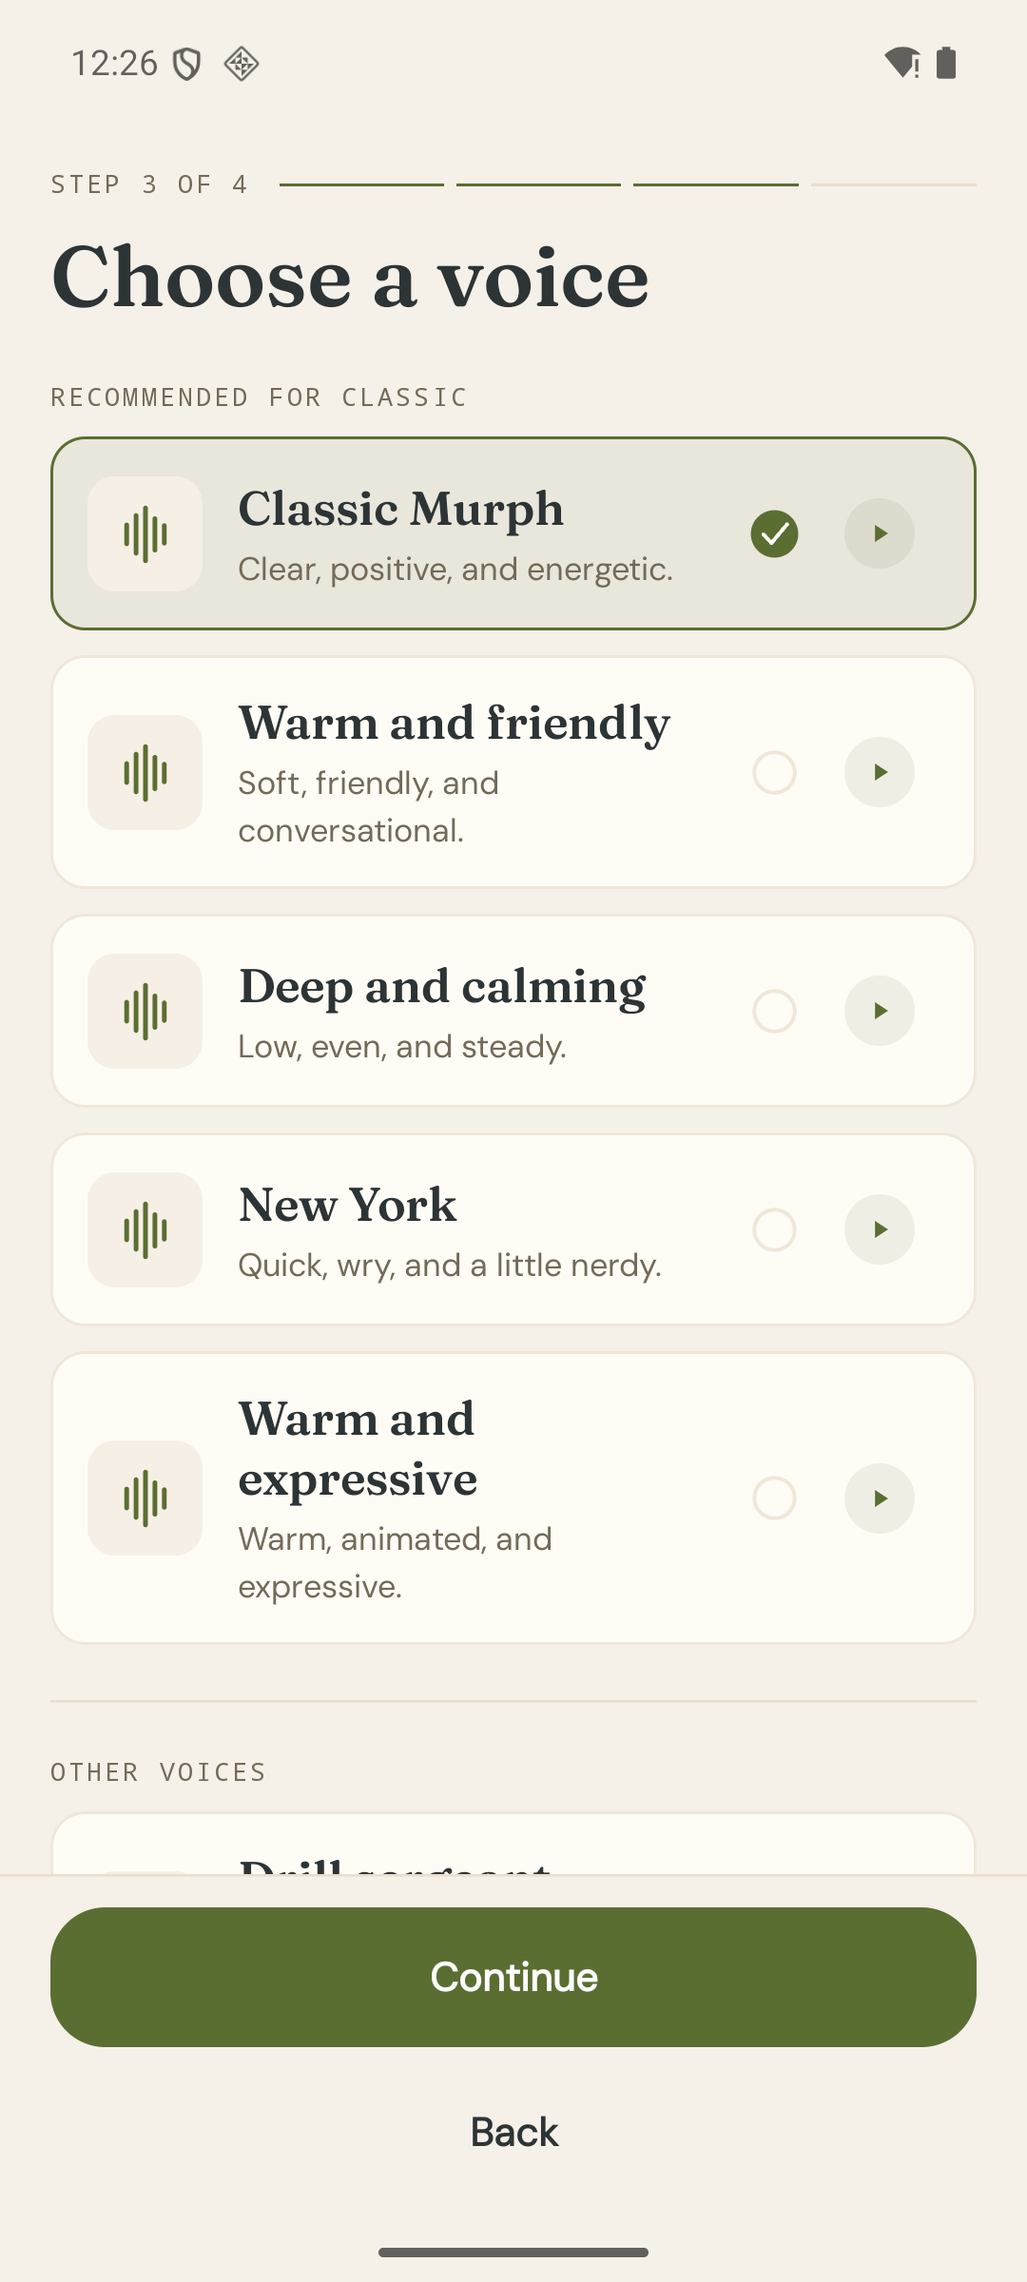
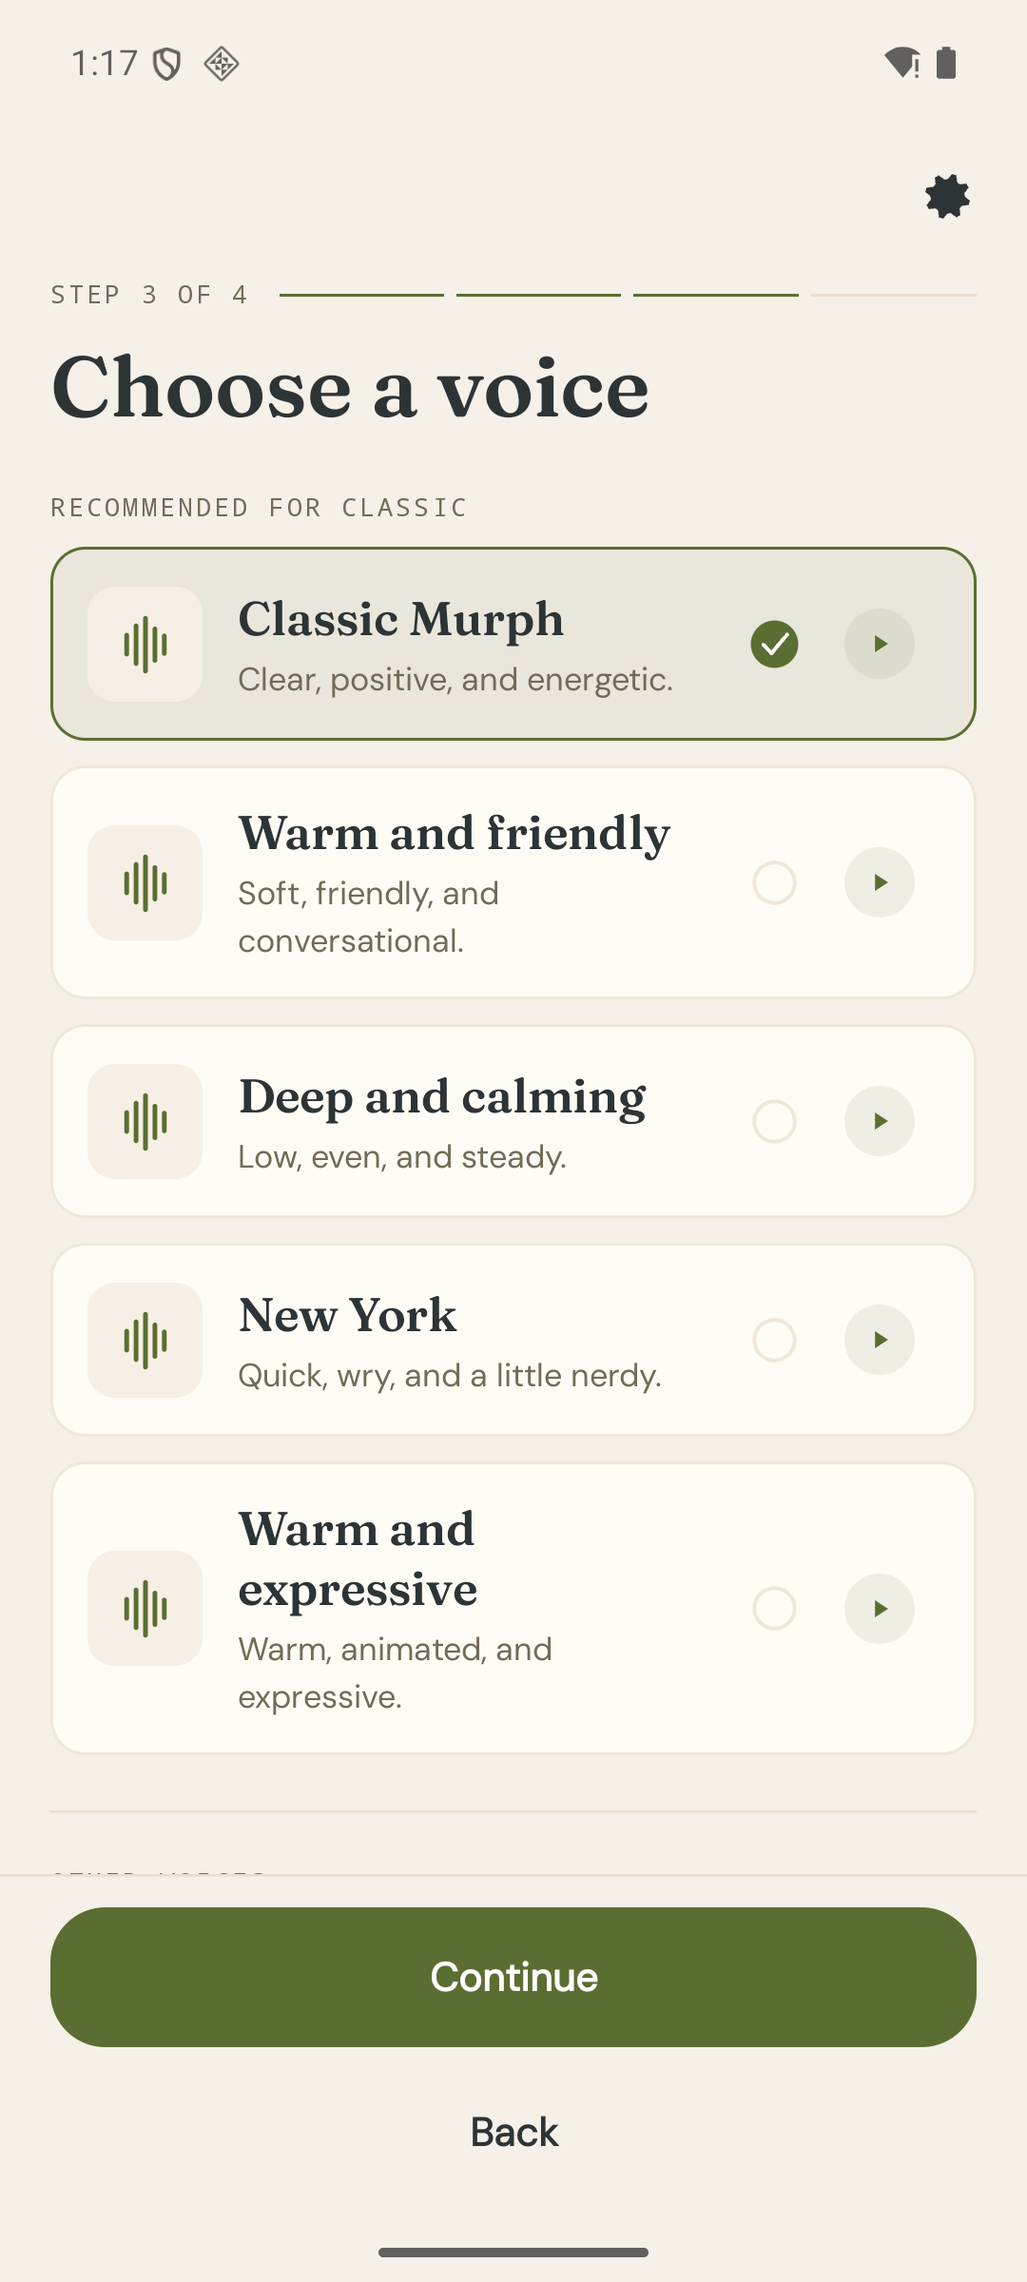
Keep settings reachable during onboarding

diff --git a/app/src/main/java/ai/withmurph/companion/ui/onboarding/InitialOnboardingScreen.kt b/app/src/main/java/ai/withmurph/companion/ui/onboarding/InitialOnboardingScreen.kt
@@ -91,6 +91,7 @@ import java.net.URL
 fun InitialOnboardingScreen(
     state: AppUiState,
     actions: MurphActions,
+    onOpenSettings: () -> Unit,
     contactAvatarPainters: Map<String, Painter> = emptyMap(),
 ) {
     val onboarding = state.initialOnboarding ?: return
@@ -175,7 +176,7 @@ fun InitialOnboardingScreen(
     }
 
     if (stage == InitialOnboardingStage.Welcome) {
-        WelcomeScreen(state, actions)
+        WelcomeScreen(state, actions, onOpenSettings)
         return
     }
 
@@ -186,97 +187,137 @@ fun InitialOnboardingScreen(
         stageScrollState.scrollTo(0)
     }
 
-    Column(
+    Box(
         modifier = Modifier
             .fillMaxSize()
             .background(MurphColors.Cream)
             .safeDrawingPadding(),
     ) {
         Column(
-            modifier = Modifier
-                .weight(1f)
-                .widthIn(max = 680.dp)
-                .fillMaxWidth()
-                .align(Alignment.CenterHorizontally)
-                .verticalScroll(stageScrollState)
-                .padding(horizontal = 20.dp, vertical = 18.dp)
-                .semantics { paneTitle = stage.onboardingTitle() },
-            verticalArrangement = Arrangement.spacedBy(22.dp),
+            modifier = Modifier.fillMaxSize(),
         ) {
-            OnboardingHeader(stage, draft, catalog.personas, stageHeadingFocus)
-            when (stage) {
-                InitialOnboardingStage.Contact -> ContactChoices(
-                    avatars = onboarding.contactCard?.avatars.orEmpty(),
-                    selectedId = draft.avatarId,
-                    avatarPainters = contactAvatarPainters,
-                    onSelect = actions.onSelectInitialOnboardingAvatar,
-                )
-                InitialOnboardingStage.MainPersona -> PersonaChoices(
-                    personas = catalog.personas,
-                    selectedId = draft.mainPersonaId,
-                    onSelect = actions.onSelectInitialOnboardingMainPersona,
-                )
-                InitialOnboardingStage.SupportingPersona -> SupportingPersonaChoices(
-                    personas = catalog.personas,
-                    draft = draft,
-                    onSelect = actions.onSelectInitialOnboardingSupportingPersona,
-                )
-                InitialOnboardingStage.Voice -> VoiceChoices(
-                    personas = catalog.personas,
-                    voices = catalog.voices,
-                    draft = draft,
-                    loadingVoiceId = loadingVoiceId,
-                    previewingVoiceId = previewingVoiceId,
-                    onSelect = actions.onSelectInitialOnboardingVoice,
-                    onPreview = ::togglePreview,
-                )
-                InitialOnboardingStage.Tone -> Column(
-                    verticalArrangement = Arrangement.spacedBy(12.dp),
+            Column(
+                modifier = Modifier
+                    .weight(1f)
+                    .widthIn(max = 680.dp)
+                    .fillMaxWidth()
+                    .align(Alignment.CenterHorizontally)
+                    .verticalScroll(stageScrollState)
+                    .padding(horizontal = 20.dp)
+                    .padding(top = 62.dp, bottom = 18.dp)
+                    .semantics { paneTitle = stage.onboardingTitle() },
+                verticalArrangement = Arrangement.spacedBy(22.dp),
+            ) {
+                OnboardingHeader(stage, draft, catalog.personas, stageHeadingFocus)
+                when (stage) {
+                    InitialOnboardingStage.Contact -> ContactChoices(
+                        avatars = onboarding.contactCard?.avatars.orEmpty(),
+                        selectedId = draft.avatarId,
+                        avatarPainters = contactAvatarPainters,
+                        onSelect = actions.onSelectInitialOnboardingAvatar,
+                    )
+                    InitialOnboardingStage.MainPersona -> PersonaChoices(
+                        personas = catalog.personas,
+                        selectedId = draft.mainPersonaId,
+                        onSelect = actions.onSelectInitialOnboardingMainPersona,
+                    )
+                    InitialOnboardingStage.SupportingPersona -> SupportingPersonaChoices(
+                        personas = catalog.personas,
+                        draft = draft,
+                        onSelect = actions.onSelectInitialOnboardingSupportingPersona,
+                    )
+                    InitialOnboardingStage.Voice -> VoiceChoices(
+                        personas = catalog.personas,
+                        voices = catalog.voices,
+                        draft = draft,
+                        loadingVoiceId = loadingVoiceId,
+                        previewingVoiceId = previewingVoiceId,
+                        onSelect = actions.onSelectInitialOnboardingVoice,
+                        onPreview = ::togglePreview,
+                    )
+                    InitialOnboardingStage.Tone -> Column(
+                        verticalArrangement = Arrangement.spacedBy(12.dp),
+                    ) {
+                        catalog.tones.forEach { tone ->
+                            ChoiceCard(
+                                title = tone.label,
+                                description = tone.sample,
+                                icon = MurphIconKind.Quote,
+                                selected = draft.toneId == tone.id,
+                                onClick = { actions.onSelectInitialOnboardingTone(tone.id) },
+                            )
+                        }
+                    }
+                    InitialOnboardingStage.Welcome -> Unit
+                }
+            }
+
+            Column(
+                modifier = Modifier
+                    .fillMaxWidth()
+                    .background(MurphColors.Cream),
+                horizontalAlignment = Alignment.CenterHorizontally,
+            ) {
+                HorizontalDivider(color = MurphColors.BorderWarm)
+                Column(
+                    modifier = Modifier
+                        .widthIn(max = 680.dp)
+                        .fillMaxWidth()
+                        .padding(horizontal = 20.dp, vertical = 12.dp),
+                    horizontalAlignment = Alignment.CenterHorizontally,
+                    verticalArrangement = Arrangement.spacedBy(10.dp),
                 ) {
-                    catalog.tones.forEach { tone ->
-                        ChoiceCard(
-                            title = tone.label,
-                            description = tone.sample,
-                            icon = MurphIconKind.Quote,
-                            selected = draft.toneId == tone.id,
-                            onClick = { actions.onSelectInitialOnboardingTone(tone.id) },
+                    state.initialOnboardingMessage?.let { message ->
+                        Text(
+                            text = message,
+                            style = MaterialTheme.typography.bodySmall,
+                            color = MurphColors.Sienna,
+                            textAlign = TextAlign.Center,
+                        )
+                        MurphLinkButton(
+                            text = "Sign out and stop syncing",
+                            onClick = actions.onSignOut,
+                            enabled = !state.isInitialOnboardingSaving,
                         )
                     }
+                    OnboardingFooter(stage, state.isInitialOnboardingSaving, actions)
                 }
-                InitialOnboardingStage.Welcome -> Unit
             }
         }
 
-        Column(
+        OnboardingSettingsBar(
+            onClick = onOpenSettings,
+            modifier = Modifier.align(Alignment.TopCenter),
+        )
+    }
+}
+
+@Composable
+private fun OnboardingSettingsBar(
+    onClick: () -> Unit,
+    modifier: Modifier = Modifier,
+) {
+    Box(
+        modifier = modifier
+            .fillMaxWidth()
+            .height(56.dp)
+            .background(MurphColors.Cream),
+    ) {
+        Box(
             modifier = Modifier
-                .fillMaxWidth()
-                .background(MurphColors.Cream),
-            horizontalAlignment = Alignment.CenterHorizontally,
+                .align(Alignment.CenterEnd)
+                .padding(end = 8.dp)
+                .size(48.dp)
+                .clip(CircleShape)
+                .clickable(role = Role.Button, onClick = onClick)
+                .semantics { contentDescription = "Open Settings" },
+            contentAlignment = Alignment.Center,
         ) {
-            HorizontalDivider(color = MurphColors.BorderWarm)
-            Column(
-                modifier = Modifier
-                    .widthIn(max = 680.dp)
-                    .fillMaxWidth()
-                    .padding(horizontal = 20.dp, vertical = 12.dp),
-                horizontalAlignment = Alignment.CenterHorizontally,
-                verticalArrangement = Arrangement.spacedBy(10.dp),
-            ) {
-                state.initialOnboardingMessage?.let { message ->
-                    Text(
-                        text = message,
-                        style = MaterialTheme.typography.bodySmall,
-                        color = MurphColors.Sienna,
-                        textAlign = TextAlign.Center,
-                    )
-                    MurphLinkButton(
-                        text = "Sign out and stop syncing",
-                        onClick = actions.onSignOut,
-                        enabled = !state.isInitialOnboardingSaving,
-                    )
-                }
-                OnboardingFooter(stage, state.isInitialOnboardingSaving, actions)
-            }
+            MurphIcon(
+                kind = MurphIconKind.GearFilled,
+                modifier = Modifier.size(20.dp),
+                tint = MurphColors.Slate,
+            )
         }
     }
 }
@@ -917,7 +958,11 @@ private fun OnboardingFooter(
 }
 
 @Composable
-private fun WelcomeScreen(state: AppUiState, actions: MurphActions) {
+private fun WelcomeScreen(
+    state: AppUiState,
+    actions: MurphActions,
+    onOpenSettings: () -> Unit,
+) {
     val action = state.initialOnboarding?.contactAction
     BoxWithConstraints(
         modifier = Modifier
@@ -989,6 +1034,10 @@ private fun WelcomeScreen(state: AppUiState, actions: MurphActions) {
                 )
             }
         }
+        OnboardingSettingsBar(
+            onClick = onOpenSettings,
+            modifier = Modifier.align(Alignment.TopCenter),
+        )
     }
 }
 

diff --git a/app/src/main/java/ai/withmurph/companion/ui/MurphApp.kt b/app/src/main/java/ai/withmurph/companion/ui/MurphApp.kt
@@ -133,7 +133,7 @@ internal fun readyAppShellState(
     healthReconnectRequired: Boolean,
     hasInitialOnboarding: Boolean = false,
 ): ReadyAppShellState {
-    val activeTab = if (hasInitialOnboarding) AppTab.Home else selectedTab
+    val activeTab = selectedTab
     return ReadyAppShellState(
         activeTab = activeTab,
         showsReconnect = healthReconnectRequired && activeTab == AppTab.Home,
@@ -142,7 +142,7 @@ internal fun readyAppShellState(
                 !healthReconnectRequired &&
                 !hasInitialOnboarding &&
                 activeTab == AppTab.Home,
-        showsTabBar = !hasInitialOnboarding,
+        showsTabBar = !hasInitialOnboarding || activeTab == AppTab.Settings,
     )
 }
 
@@ -310,6 +310,7 @@ private fun ReadyApp(
                             InitialOnboardingScreen(
                                 state = state,
                                 actions = actions,
+                                onOpenSettings = { selectedTab = AppTab.Settings },
                                 contactAvatarPainters = initialOnboardingContactAvatarPainters,
                             )
                         } else {

diff --git a/app/src/test/java/ai/withmurph/companion/ui/MurphAppShellStateTest.kt b/app/src/test/java/ai/withmurph/companion/ui/MurphAppShellStateTest.kt
@@ -147,9 +147,23 @@ class MurphAppShellStateTest {
     }
 
     @Test
-    fun friendlyNamesBannerWaitsUntilInitialOnboardingFinishes() {
+    fun initialOnboardingKeepsSettingsReachableWithoutShowingItsBanner() {
         val shell = readyAppShellState(
             selectedTab = AppTab.Settings,
+            initialSetupStep = InitialSetupStep.FriendlyNames,
+            healthReconnectRequired = false,
+            hasInitialOnboarding = true,
+        )
+
+        assertEquals(AppTab.Settings, shell.activeTab)
+        assertFalse(shell.showsFriendlyNamesSetup)
+        assertTrue(shell.showsTabBar)
+    }
+
+    @Test
+    fun initialOnboardingHidesTheTabBarWhileItOwnsHome() {
+        val shell = readyAppShellState(
+            selectedTab = AppTab.Home,
             initialSetupStep = InitialSetupStep.FriendlyNames,
             healthReconnectRequired = false,
             hasInitialOnboarding = true,

diff --git a/ARCHITECTURE.md b/ARCHITECTURE.md
@@ -25,7 +25,7 @@ ui/        Compose surfaces and Murph theme
 4. **Backend evidence is truth.** Local permission completion means only that the system flow completed. “Synced” requires a backend receipt scoped to `health_connect` that is strictly newer than both the receipt observed immediately before the current setup and that response's server `observedAt`; the observation remains the floor when no prior receipt exists. Setup age, receipt freshness, and relative-time copy use the same server clock, never the device wall clock. If refresh fails, the cached projection is labeled **Last checked online** instead of rendering a frozen sync classification as current. Address-book copy renders only the server status returned by the companion endpoint, never local permission state as success.
 5. **Canonical admission before product work.** One neutral phone/email OTP flow serves new and returning members. A current, verified Privy member first calls the dedicated member-fenced companion admission endpoint, which creates or restores only the canonical Murph account and returns exactly `{ "ok": true }`; it never requests a Junction token or grants device authority. Only after admission may status, onboarding, or health setup run, and source-scoped status never substitutes for admission. Offline restoration returns through the same gate. Exact account-conflict responses tear down local member and Junction authority. Structured launch-consent failures enter one native `AppSession` recovery owner, which pauses local Junction authority, strictly validates same-origin HTTPS server documents, accepts only missing launch scopes with all canonical scope documents and exact versions, enforces monotonic progress, reloads `CONSENT_DOCUMENT_VERSIONS_STALE`, and resumes the exact blocked action after the backend reports launch consent granted.
 6. **Explicit, transactional lifecycle.** Account admission never touches Junction. First setup requests system permission before obtaining a `connect` token or identifying Junction, while known same-member passive restoration sends `resume`. Neither path may reverse durable stopped/disconnected state. The exact typed reconnect response atomically revokes the old setup snapshot and records **Reconnect Health Connect** across process recreation; only that visible action may proceed to `connect`, and its typed authority remains until final setup commits. Permission recovery durably revokes the prior setup and tears down its Junction identity before a fresh `connect`. Every connect attempt refreshes the server receipt baseline immediately before its token request, repeating after a consent detour; a consent-interrupted continuation also refreshes current Health Connect grants before it can identify or connect. The application-lifetime session owns the optional history-permission continuation, commits the setup marker, receipt baseline, observation time, and reconnect clearance as one restart snapshot only after that prompt resolves, and starts the first sync exactly once. A failed commit restores the prior snapshot and tears down the incomplete live Junction identity. Foreground reconciliation preserves the matching in-flight transaction, while sign-out and member changes invalidate it. An incomplete setup never becomes a durable local Junction identity.
-7. **Server-owned onboarding, process-local draft.** After admission, `AppSession` loads `murph.companion.initial-onboarding.v1`. The server owns status, catalog, defaults, contact-card metadata, and handoff actions. Android keeps only the current draft in memory, posts one exact save or skip body, shows Welcome only for `completedNow: true`, and treats stale completion as already resolved. Foreground refresh may remove completed onboarding but never overwrite an in-progress draft. Consent recovery resumes the exact interrupted load, completion, or contact-card request. Every authenticated `Ready` state retains the Home/Settings shell, so onboarding and optional setup can never suppress support, account deletion, sign-out, or legal controls.
+7. **Server-owned onboarding, process-local draft.** After admission, `AppSession` loads `murph.companion.initial-onboarding.v1`. The server owns status, catalog, defaults, contact-card metadata, and handoff actions. Android keeps only the current draft in memory, posts one exact save or skip body, shows Welcome only for `completedNow: true`, and treats stale completion as already resolved. Foreground refresh may remove completed onboarding but never overwrite an in-progress draft. Consent recovery resumes the exact interrupted load, completion, or contact-card request. Onboarding may hide the bottom tabs only while its immersive Home presentation is visible; a direct Settings escape restores the shell so support, account deletion, sign-out, and legal controls remain reachable before save or skip succeeds.
 8. **Minimal persistence.** SharedPreferences contains an installation UUID, member key, one member-scoped forward-only native setup step, server-observed setup timestamp, pre-setup receipt baseline, last qualifying receipt and status-observation timestamps, a typed reconnect-required continuation, pending-sign-out tombstone, address-book server revision, and at most one replacement and one deletion mutation's base revision plus UUIDv4 id. The setup step is navigation only: it advances from Health Connect to Friendly Names to Complete after an existing durable success boundary or explicit **Not now**, never substitutes for permission, connection, or server truth, and clears at member trust boundaries. SharedPreferences never stores tokens, onboarding drafts, health values, contacts, phone numbers, names, hashes, lookup keys, consent documents, consent versions, grants, or provider responses.
 9. **Trust-boundary teardown.** Account switching, sign-out, backend rejection, and a signed-in Junction SDK without a completed setup marker clear the local Junction session before more health work. Sign-out atomically persists its tombstone and removes durable setup authorization before waiting on app work or touching either SDK. Startup finishes pending Junction-first, Privy-second teardown before auth restoration and clears the tombstone only after both boundaries and member-state removal succeed. A failed preferences commit restores its pre-call live snapshot so undurable values never authorize later lifecycle work.
 10. **One foreground-sync owner.** Junction owns Health Connect reads, backfill, its foreground WorkManager chain, and provider upload; `AppSession` owns when an explicit foreground sync may begin. SDK app-start sync stays disabled.
